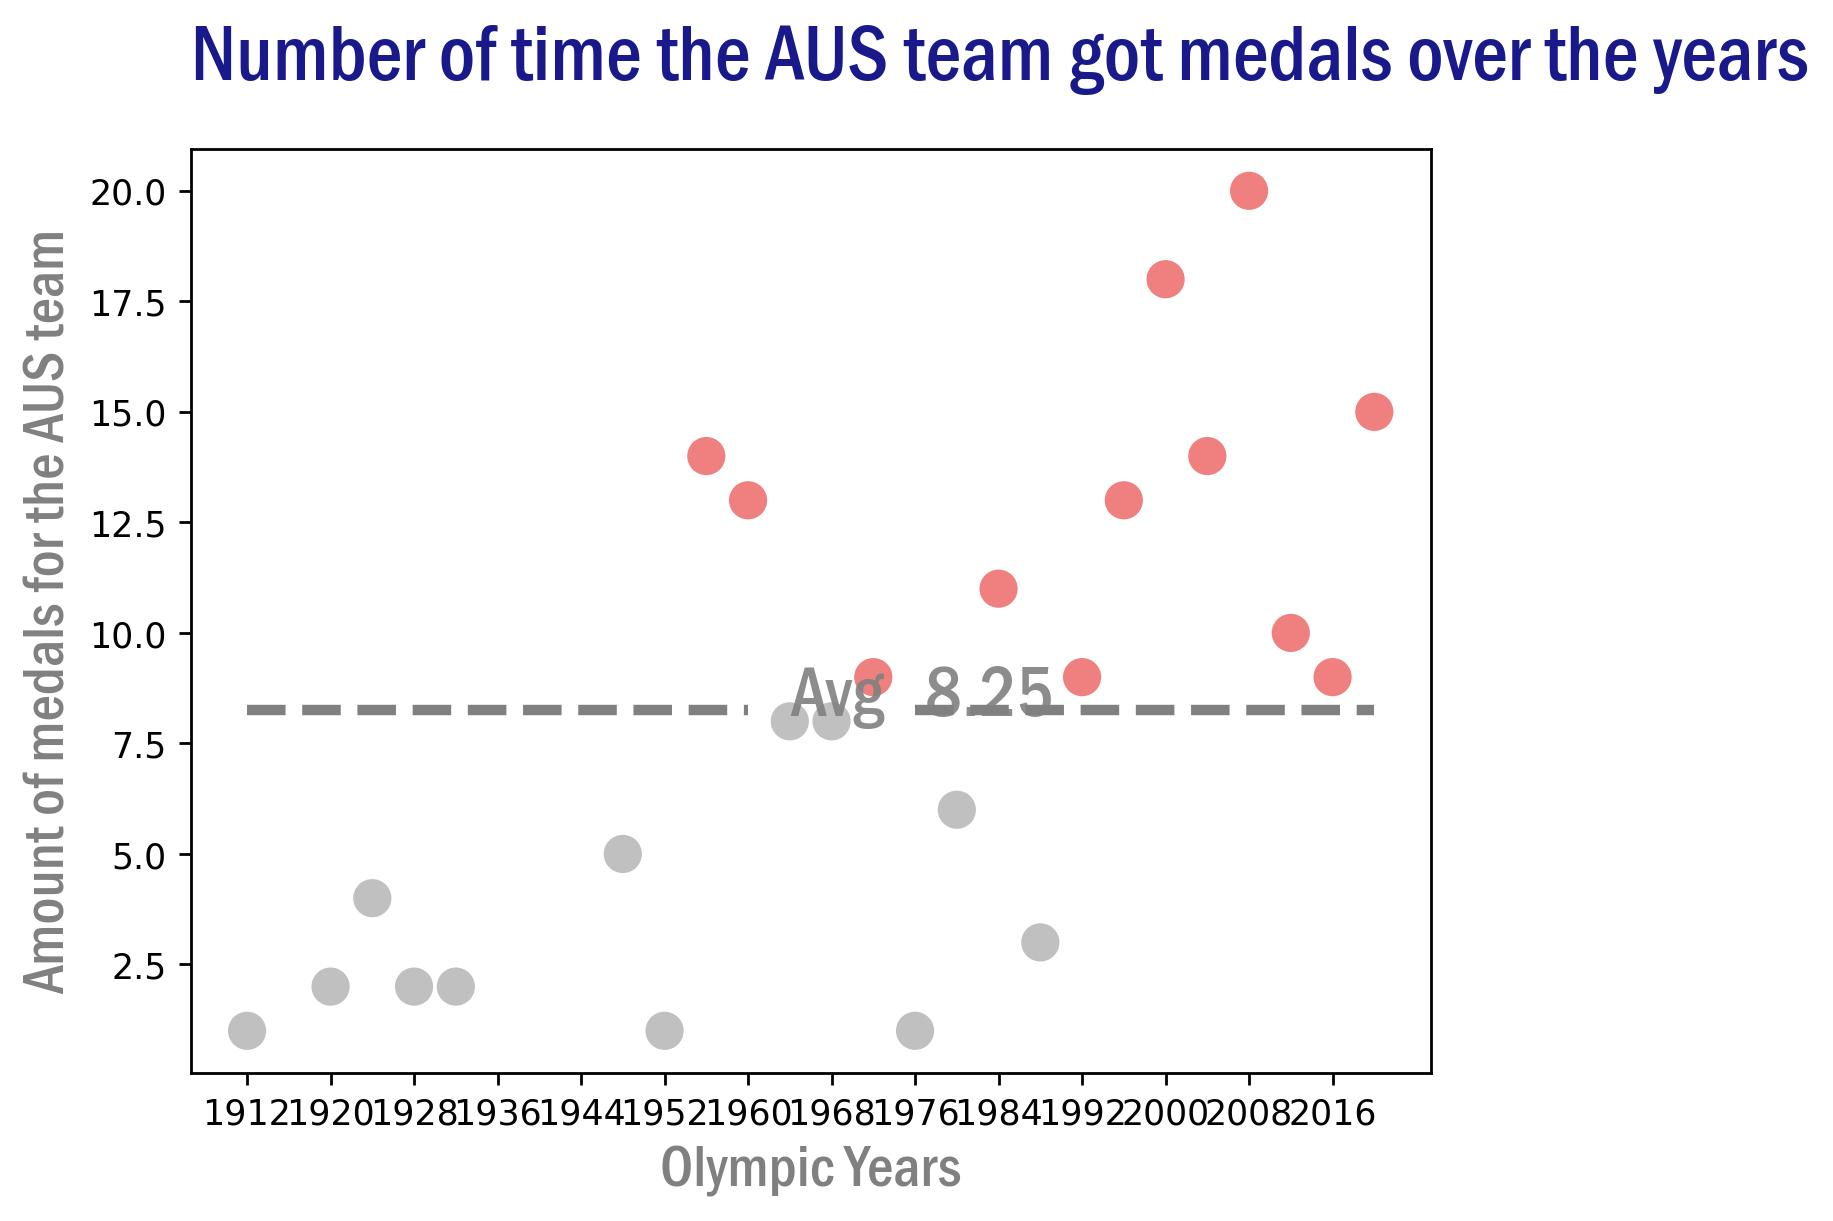
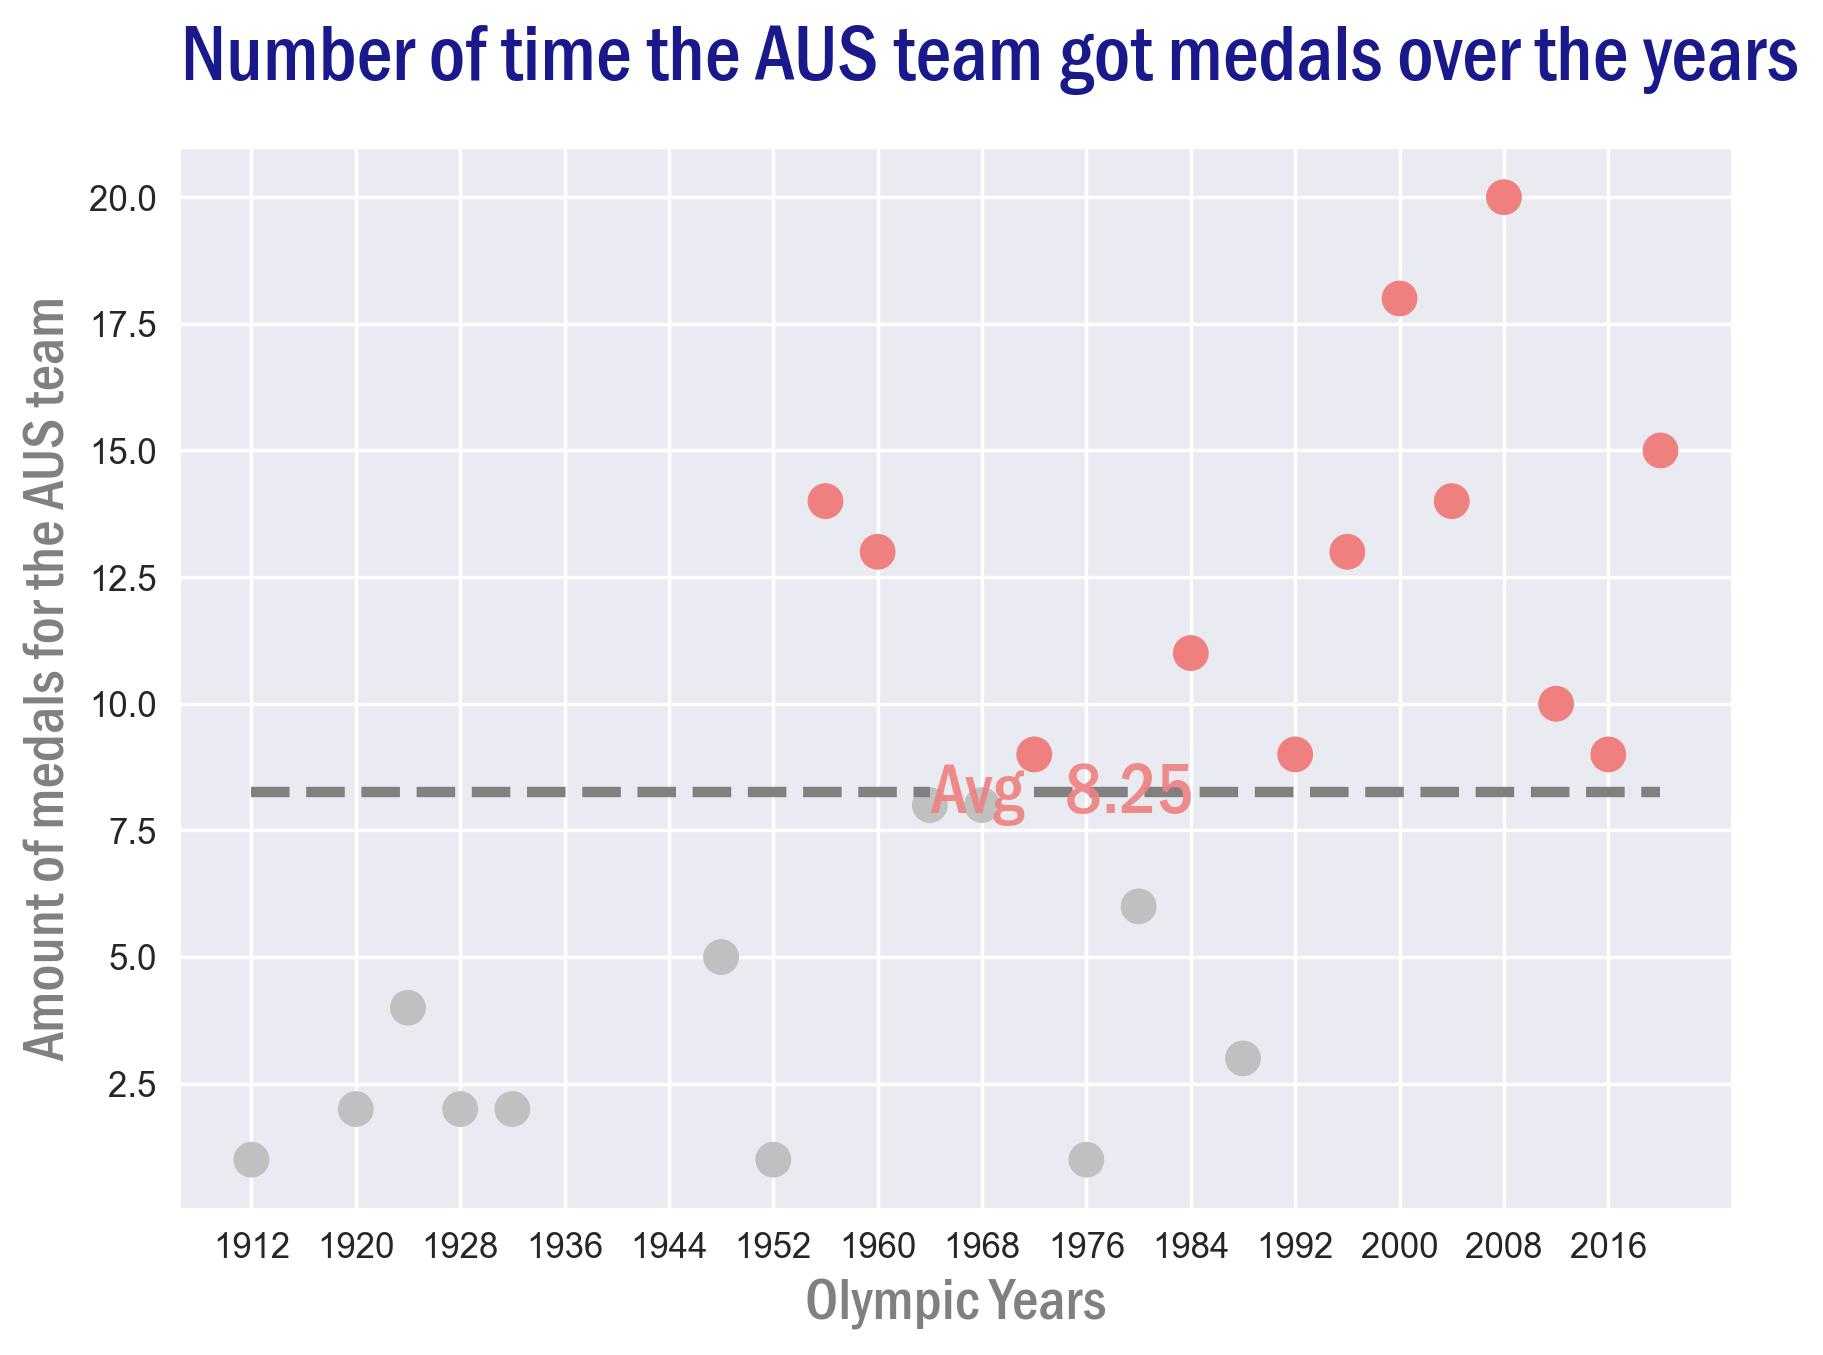
Last update - 8 images for -Q4

diff --git a/Olympic_games_in_swimming/Olympic_games_question/quetion_4/question_4_avg_dot_plot.py b/Olympic_games_in_swimming/Olympic_games_question/quetion_4/question_4_avg_dot_plot.py
@@ -54,23 +54,23 @@ def creating_the_dot_chart_of_each_teams(avg_of_the_team_over_the_years,final_ta
     y_axis = final_table['Amount_of_medals'].to_numpy()
     print('*')
 
-
+    plt.style.use('seaborn')
     # Assign colors based on the y-values
     colors = np.where(y_axis <= avg_of_the_team_over_the_years, 'silver',color ) #'deepskyblue'
-    fontdict_input2 = {'fontsize': 21, 'weight': 'heavy', 'alpha': 0.9, 'color': 'gray','fontname':'Franklin Gothic Medium Cond',  'weight':'bold' , 'style':'italic' }
+    fontdict_input2 = {'fontsize': 21, 'weight': 'heavy', 'alpha': 0.9,'fontname':'Franklin Gothic Medium Cond',  'weight':'bold' , 'style':'italic' }
     print('*')
 
     fig, ax = plt.subplots()
 
     # Add the horizontal line ( we have 2 parts )
-    plt.hlines(avg_of_the_team_over_the_years,1912,1960,colors="gray", linestyle='dashed', linewidth=3)
-    plt.hlines(avg_of_the_team_over_the_years,1976,2020,colors="gray", linestyle='dashed',  linewidth=3)
+    plt.hlines(avg_of_the_team_over_the_years,1912,1964,colors="gray", linestyle='dashed', linewidth=3)
+    plt.hlines(avg_of_the_team_over_the_years,1972,2020,colors="gray", linestyle='dashed',  linewidth=3)
 
     rounded_number = round(avg_of_the_team_over_the_years, 2)
 
 
     # Annotation for the avg value at the center
-    plt.text(x=1964, y=avg_of_the_team_over_the_years - avg_of_the_team_over_the_years * 0.05, s=f'Avg   {rounded_number}', ha='left', va='bottom', fontdict=fontdict_input2)
+    plt.text(x=1964, y=avg_of_the_team_over_the_years - avg_of_the_team_over_the_years * 0.08, s=f'Avg   {rounded_number}', ha='left', va='bottom', color = color ,fontdict=fontdict_input2)
 
 
 
@@ -91,6 +91,7 @@ def creating_the_dot_chart_of_each_teams(avg_of_the_team_over_the_years,final_ta
     plt.title(f"Number of time the {team_name_str} team got medals over the years", loc='left',fontdict=fontdict_input_title,  pad=20) # }
 
     plt.savefig(f'dot_plot_with_avg_line_of_{team_name_str}.jpg', dpi=250, bbox_inches='tight')
+
 # Show the plot
     plt.show()
 
